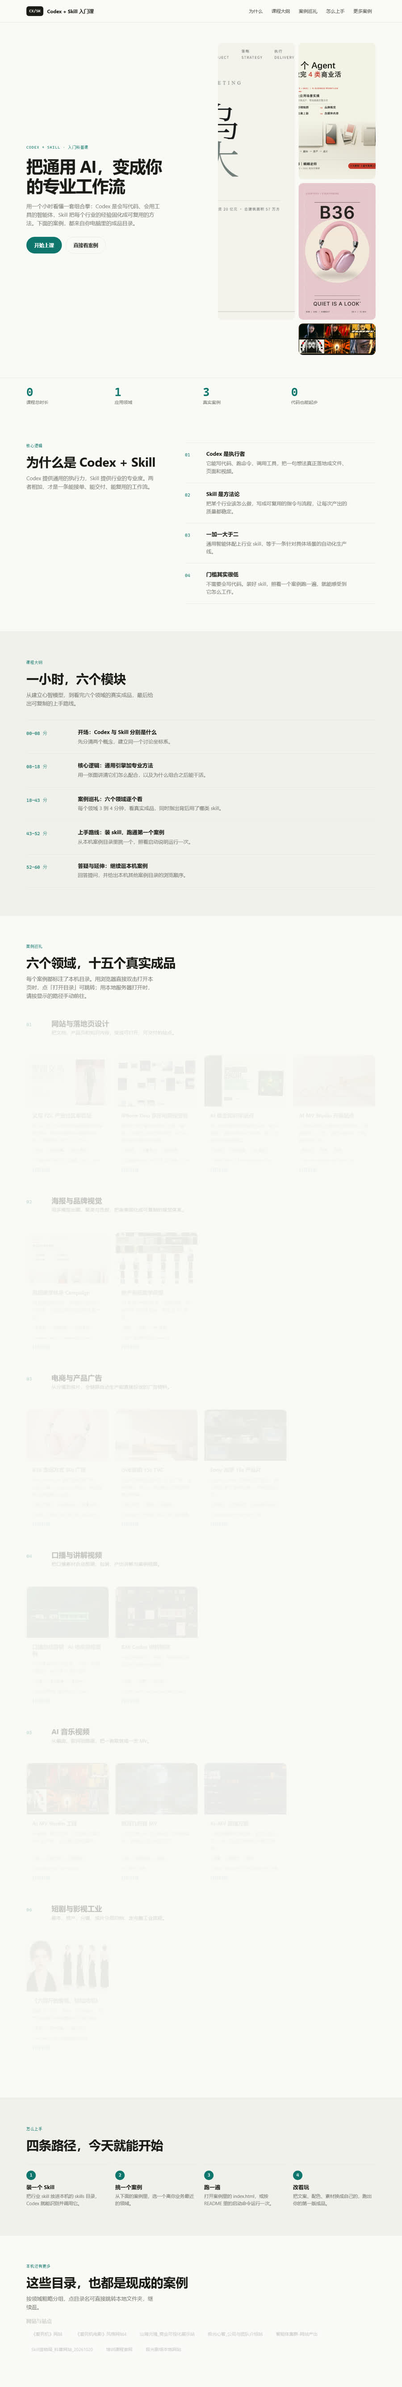
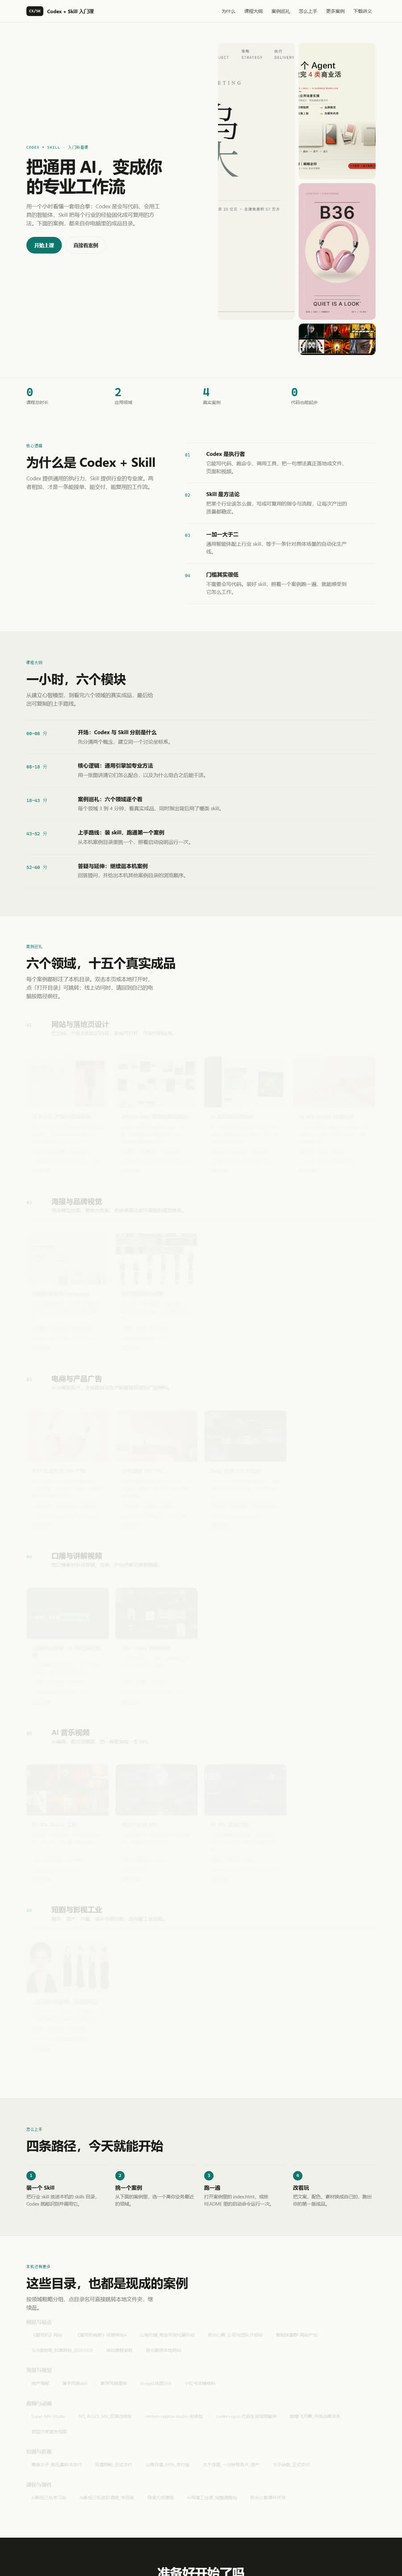
补充线上访问说明与讲义下载区，更新整页预览

diff --git a/index.html b/index.html
@@ -94,7 +94,7 @@
         <div class="cases-head">
           <p class="eyebrow">案例巡礼</p>
           <h2>六个领域，十五个真实成品</h2>
-          <p class="lead">每个案例都标注了本机目录。用浏览器直接双击打开本页时，点「打开目录」可跳转；用本地服务器打开时，请按显示的路径手动前往。</p>
+          <p class="lead">每个案例都标注了本机目录。双击本页或本地打开时，点「打开目录」可跳转；线上访问时，请回到自己的电脑按路径前往。</p>
         </div>
         <div id="cases-root"></div>
       </div>

diff --git a/README.md b/README.md
@@ -2,6 +2,14 @@
 
 一小时的入门科普与案例展示站，纯静态、零依赖、离线可打开。
 
+## 线上地址
+
+- 网站：https://guoguo52.github.io/codex-skill-course/
+- PPTX 课件：https://guoguo52.github.io/codex-skill-course/downloads/Codex-Skill-Course.pptx
+- PDF 讲义：https://guoguo52.github.io/codex-skill-course/downloads/Codex-Skill-Course.pdf
+
+托管在 GitHub Pages（免费、自带 HTTPS）。更新内容后推送 `main` 分支即可，约 1 分钟自动生效。
+
 ## 打开方式
 
 直接双击 `index.html` 即可。页面里的「打开目录」按钮用 `file://` 跳转，双击打开时可直接跳到本地案例目录。
@@ -23,7 +31,16 @@ codex-skill-course/
 ├─ styles.css    设计与动效
 ├─ data.js       案例与补充目录数据
 ├─ script.js     渲染、动效与交互
+├─ build-deck.cjs PPTX 生成脚本（node build-deck.cjs 重新生成）
+├─ downloads/     Codex-Skill-Course.pptx / .pdf（可编辑课件与讲义）
 └─ assets/cases/ 15 张案例封面（本地复制，可离线显示）
+```
+
+## 重新生成讲义
+
+```bash
+node build-deck.cjs            # 重新生成可编辑 PPTX
+# PDF 用 Chrome 打印生成：index.html?print=1
 ```
 
 ## 内容
